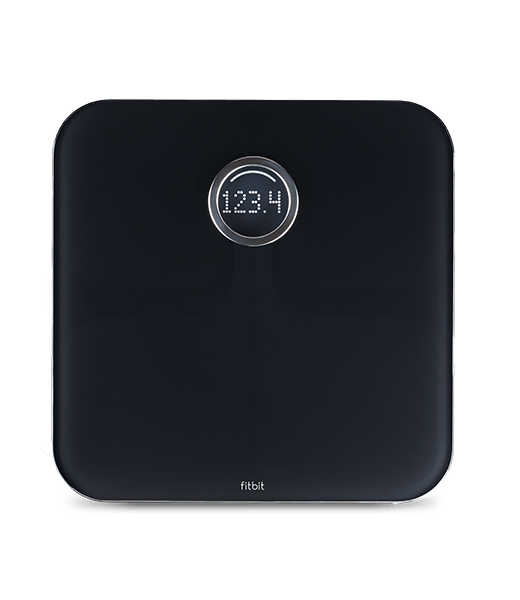
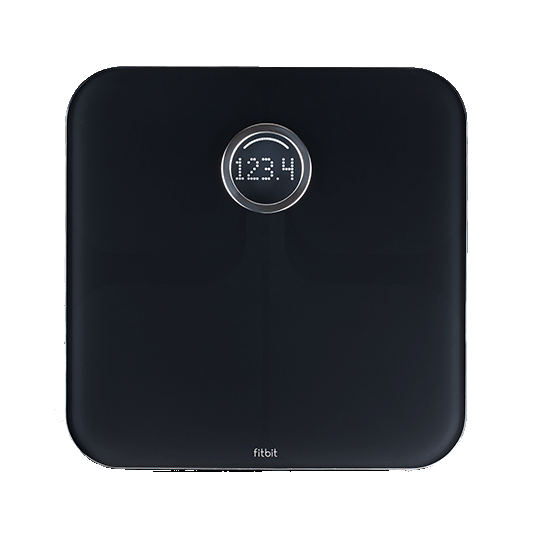
Finished #17 Updated images and added battery precentage

Changed region(s): [[0.0923, 0.1185, 0.8923, 0.8889], [0.4, 0.2074, 0.5846, 0.4148]]

diff --git a/inc/dataReturn.php b/inc/dataReturn.php
@@ -456,8 +456,15 @@
             foreach ($dbDevices as $key => $dev) {
                 $dbDevices[$key]['image'] = 'images/devices/' . str_ireplace(" ","",$dbDevices[$key]['deviceVersion']) . ".png";
                 $dbDevices[$key]['imageSmall'] = 'images/devices/' . str_ireplace(" ","",$dbDevices[$key]['deviceVersion']) . "_small.png";
+                if (strtolower($dbDevices[$key]['battery']) == "high") {
+                    $dbDevices[$key]['precentage'] = 100;
+                } else if (strtolower($dbDevices[$key]['battery']) == "medium") {
+                    $dbDevices[$key]['precentage'] = 50;
+                } else if (strtolower($dbDevices[$key]['battery']) == "low") {
+                    $dbDevices[$key]['precentage'] = 10;
+                }
             }
-            
+
             return $dbDevices;
         }
 
